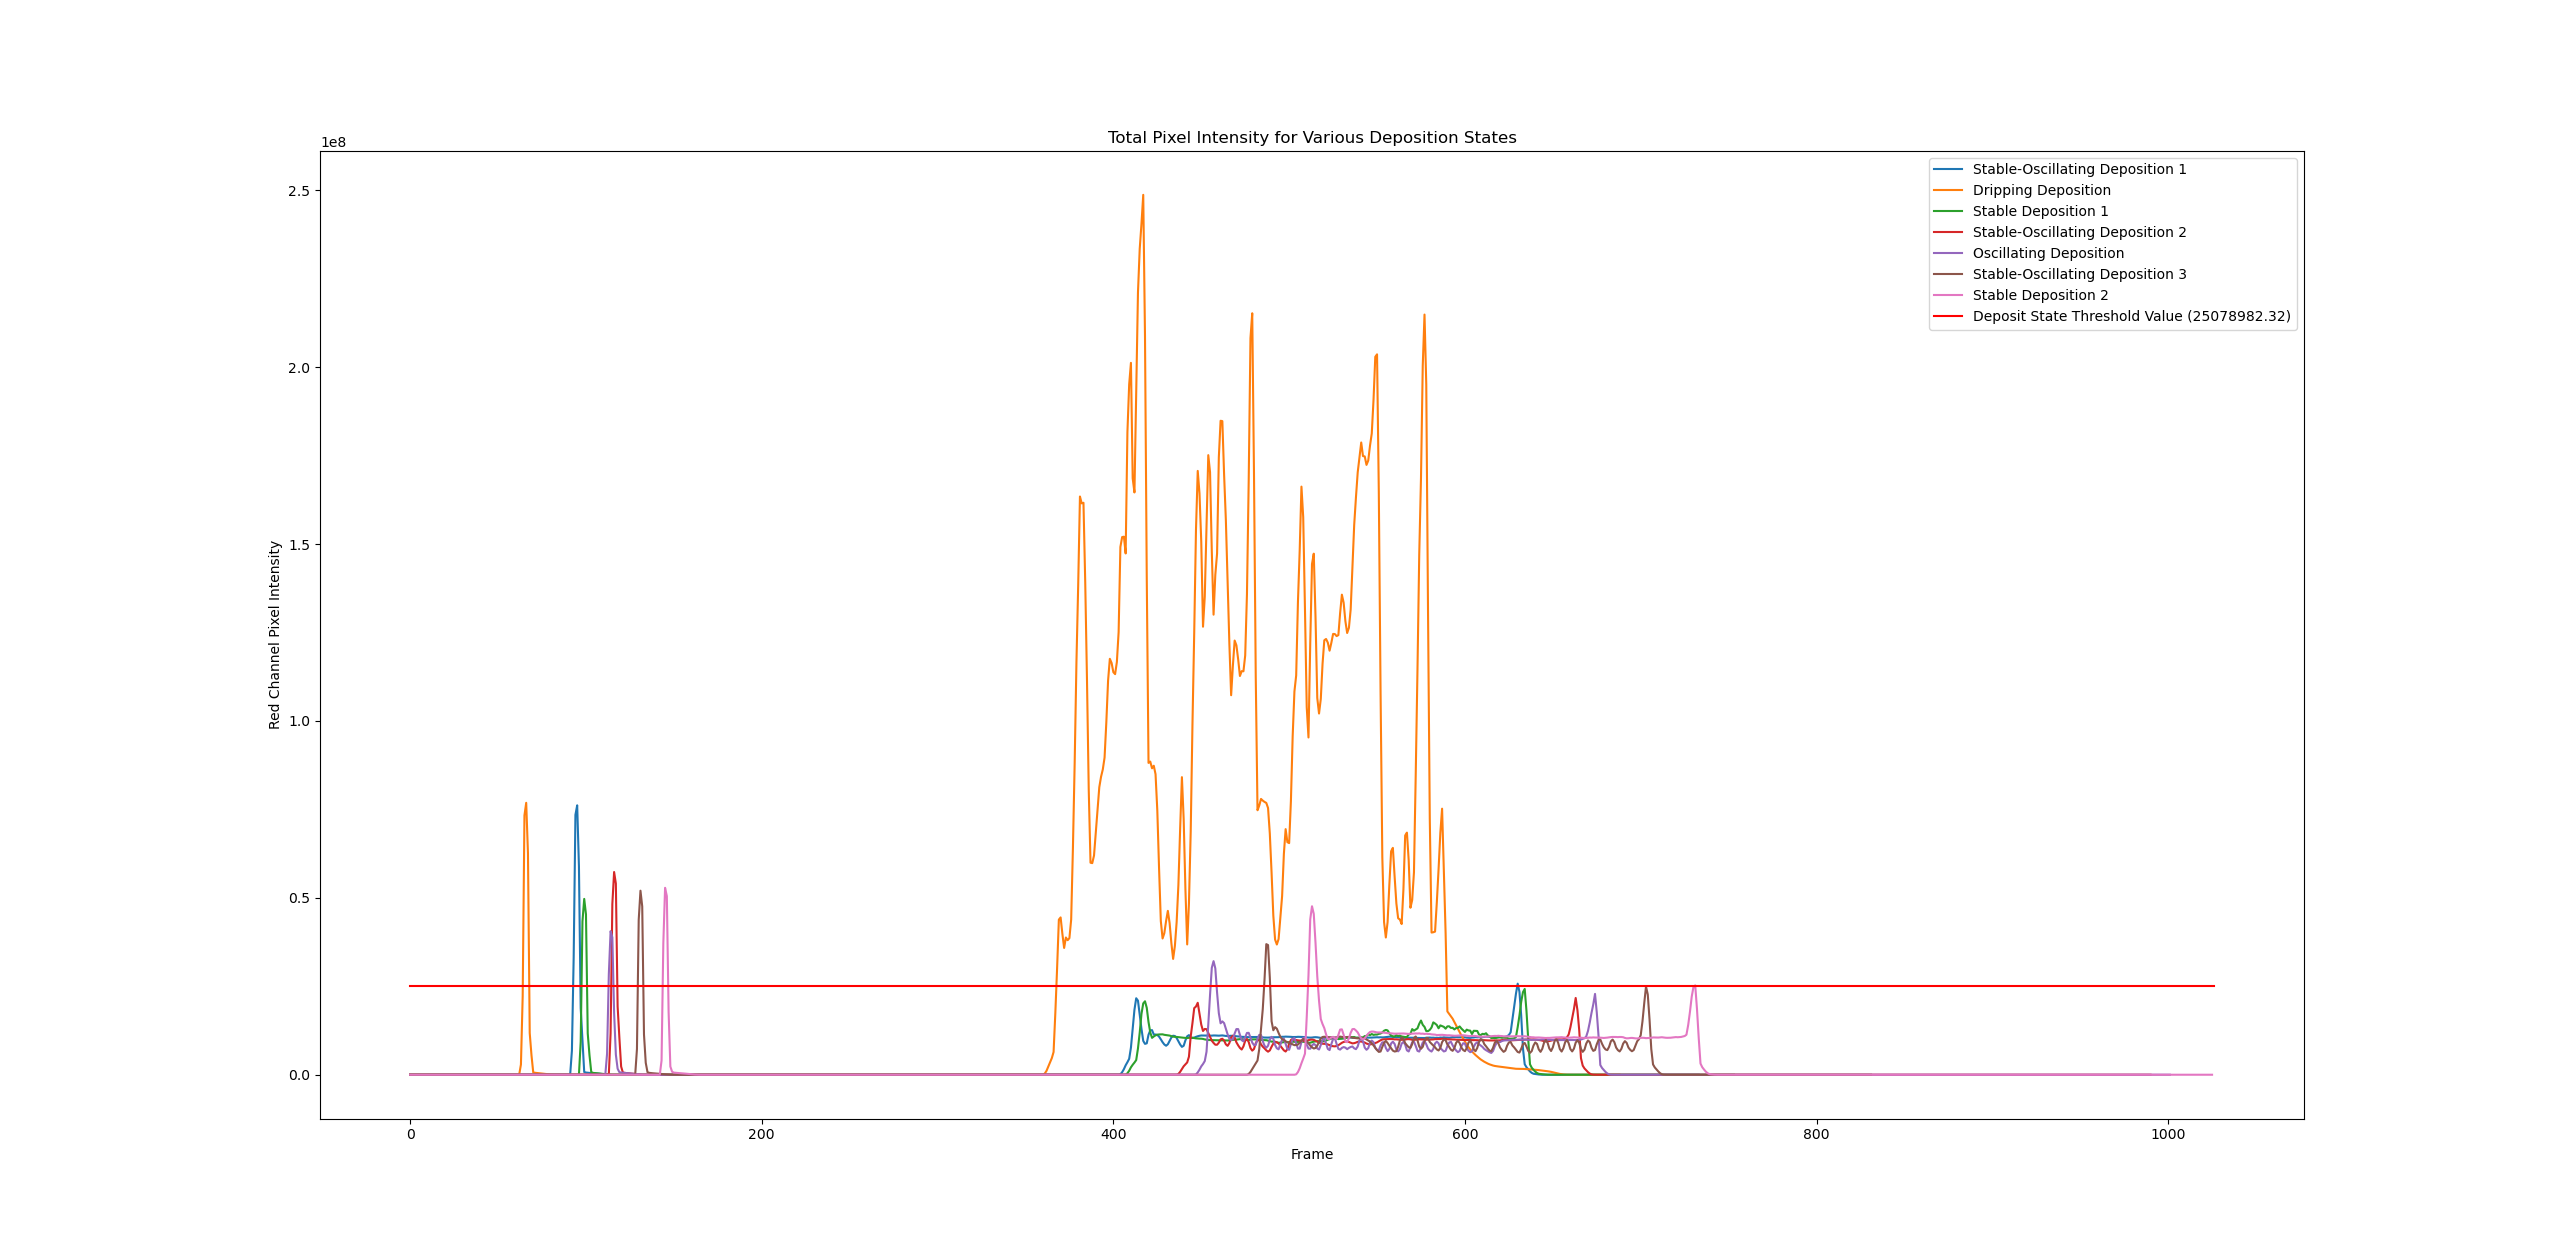
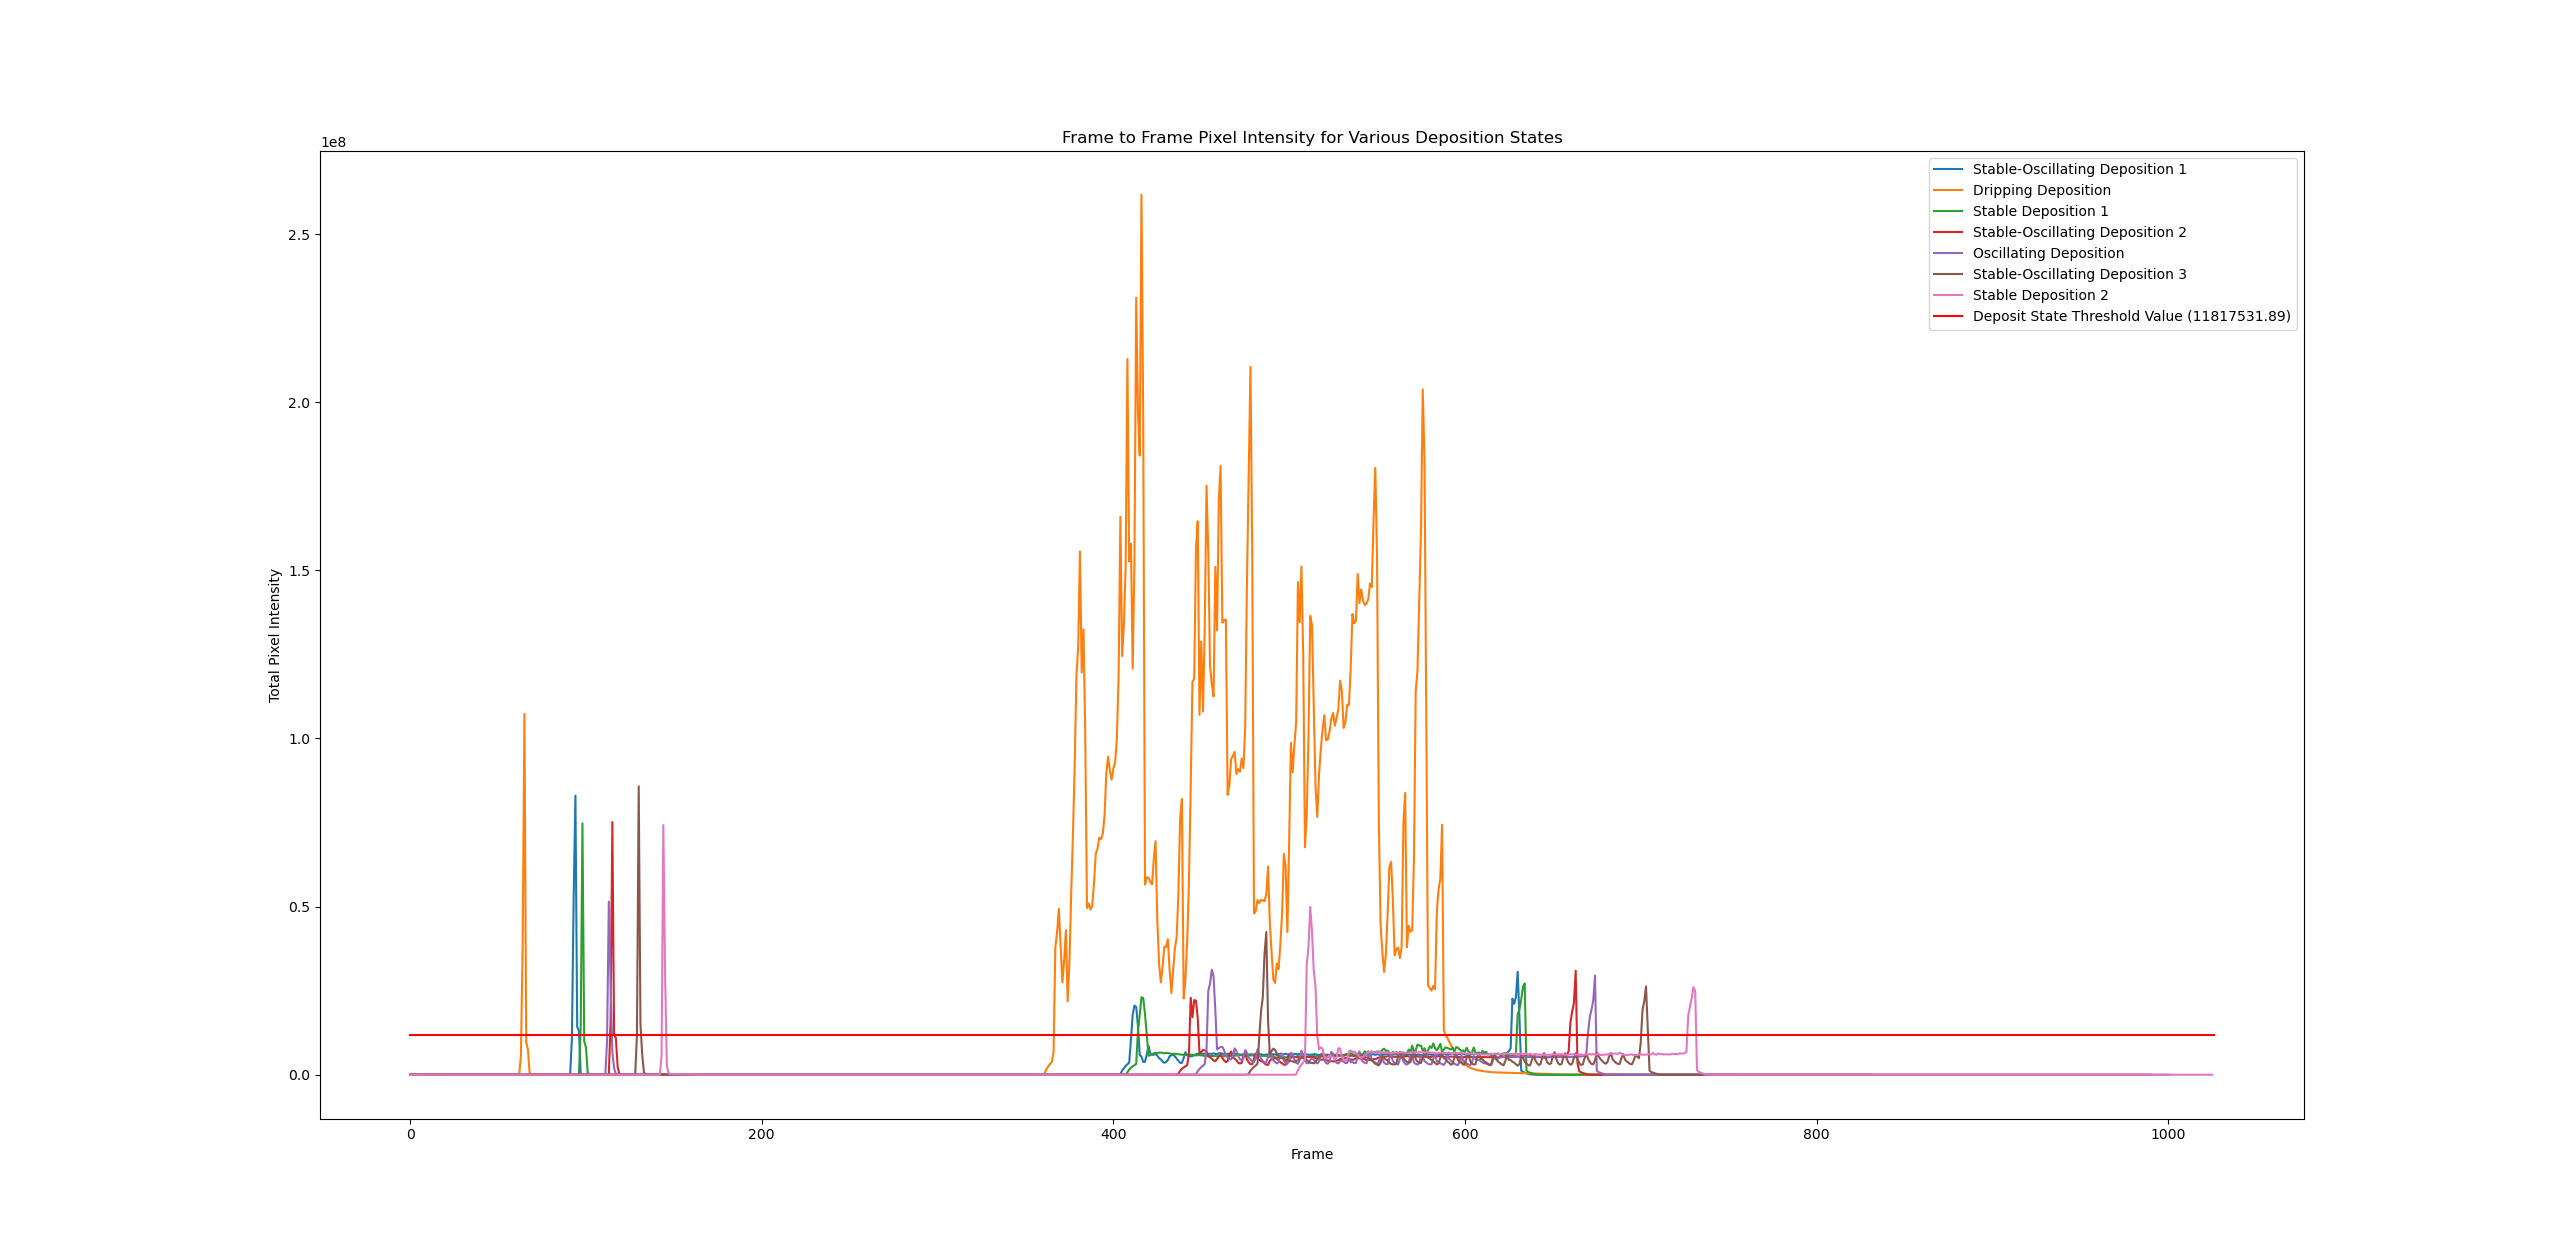
good progress today

diff --git a/Wiggleometer.py b/Wiggleometer.py
@@ -46,7 +46,7 @@ class Wiggleometer:
 
         #thresholding parameters
         self.deposit_state_threshold = 3687626
-        self.balling_threshold = 20248446
+        self.balling_threshold = 11817531
         self.stubbing_threshold = 801825
         
 
@@ -153,6 +153,8 @@ class Wiggleometer:
 
         elif np.mean(self.total_intensity_buffer) > self.balling_threshold or self.total_intensity > self.balling_threshold:
             self.stability_state = 'Balling'
+            self.stub_frequency_buffer[-1] = 0
+
 
         else:
             peaks,__ = find_peaks(np.asarray(self.stub_frequency_buffer),prominence = 500000,plateau_size = 1,width=1)
@@ -164,6 +166,7 @@ class Wiggleometer:
                     self.active_event = True
                     #print('EVENT DETECTED')
                 self.stability_state = 'Stubbing'
+                print(self.stub_frequency_buffer)
 
             if np.mean(np.asarray(self.frame_change_buffer,dtype=np.float64)) > self.stubbing_threshold:
                 self.stability_state = 'Stubbing'
@@ -215,18 +218,17 @@ class Wiggleometer:
 
         if self.deposit_state == 'Engage' and self.frame_change_difference < self.deposit_state_threshold:
             self.deposit_state = 'Depositing'
-
             print('Deposit has started')
 
         if self.deposit_state == 'Depositing' and self.frame_change_difference > self.deposit_state_threshold and self.stability_state != 'Balling':
             self.deposit_state = 'Retract'
             print('OG retract')
 
-        if self.deposit_state == 'Depositing' and self.frame_change_difference < 1000 and self.stability_state == 'Balling':
+        if self.deposit_state == 'Depositing' and self.frame_change_difference < 1000:
             self.deposit_state = 'Retract'
             print('NEW retract')
 
-        if self.deposit_state == 'Retract' and self.frame_change_difference < 1000:
+        elif self.deposit_state == 'Retract' and self.frame_change_difference < 1000:
             self.deposit_state = 'Deposition Complete'
             print('complete')
 
@@ -237,7 +239,7 @@ class Wiggleometer:
         
         if self.deposit_state == 'Engage':
             self.engage_index.append(self.frame_idx)
-            print(f'\n\n\n engage happened at {self.engage_index}\n\n\n')
+            #print(f'\n\n\n engage happened at {self.engage_index}\n\n\n')
 
         if self.deposit_state == 'Retract':
             self.retract_index.append(self.frame_idx)
@@ -390,7 +392,7 @@ if __name__ == '__main__':
     global_true_binary_change = []
 
     videos = [1,3,4,5,6,7]
-    files = [1,2,3,4,5,6,7]
+    files = [2]
     roi = [795,444,305,588]
     threshold = 100
 
@@ -459,10 +461,13 @@ if __name__ == '__main__':
             cv2.rectangle(test.gray_image, (int(roi[0]), int(roi[1])), (int(roi[0]+roi[2]), int(roi[1]+roi[3])), (255, 255, 255), 2) 
             # cv2.imshow('frame',display_img)
             # cv2.waitKey(60)
-            print(test.stability_state)
+            # print(test.stability_state)
             print(f'frame change difference {test.frame_change_difference}')
+            print(test.stability_state)
+            # print(test.stub_frequency_buffer)
+            # print('its balling right the frick now')
             
-            print(f'intensity {test.total_intensity}')
+            # print(f'intensity {test.total_intensity}')
             test.get_frame()
             
             total_average_intensity.append(np.mean(np.asarray(test.total_intensity_buffer,dtype=np.float64)))
@@ -480,7 +485,7 @@ if __name__ == '__main__':
         #plt.plot(total_intensity,color='blue')
         #plt.plot(true_binary_change,color='red')
         #plt.show()
-        #stubs,lengths,positions = find_stub_indecies(binary_change,test.engage_index,test.retract_index)
+        stubs,lengths,positions = find_stub_indecies(binary_change,test.engage_index,test.retract_index)
 
         # #find_stub_lengths(binary_change,stubs,test.engage_index,test.retract_index)
 
@@ -499,12 +504,12 @@ if __name__ == '__main__':
         # plt.title('White Count')
         # plt.show()
         
-        # deposit_data.update({'stub_indecies':stubs})
-        # deposit_data.update({'stub_lengths':lengths})
-        # deposit_data.update({'stub_intensities':binary_change[stubs]})
-        # #deposit_data.update({'deposit_length':((np.max(test.retract_index)-np.min(test.engage_index))/30)})
-        # deposit_data.update({'total_stub_occurances':len(stubs)})
-        #print_stub_summary(deposit_data)
+        deposit_data.update({'stub_indecies':stubs})
+        deposit_data.update({'stub_lengths':lengths})
+        deposit_data.update({'stub_intensities':binary_change[stubs]})
+        deposit_data.update({'deposit_length':((np.max(test.retract_index)-np.min(test.engage_index))/30)})
+        deposit_data.update({'total_stub_occurances':len(stubs)})
+        print_stub_summary(deposit_data)
 
    
         
@@ -562,21 +567,21 @@ if __name__ == '__main__':
 
     
 
-    for idx,threshold in enumerate(files):
-    #     #plt.plot(vid)
-        print(f'{titles[threshold-1]}')
-        plt.plot(global_total_intensity[idx],label = f'{titles[threshold-1]}')
-    plt.legend(loc="upper left")
+    # for idx,threshold in enumerate(files):
+    # #     #plt.plot(vid)
+    #     print(f'{titles[threshold-1]}')
+    #     plt.plot(global_total_intensity[idx],label = f'{titles[threshold-1]}')
+    # plt.legend(loc="upper left")
 
-    plt.xlabel('Frame')
-    plt.ylabel('Total Pixel Intensity')
-    plt.title('Frame to Frame Pixel Intensity for Various Deposition States')
+    # plt.xlabel('Frame')
+    # plt.ylabel('Total Pixel Intensity')
+    # plt.title('Frame to Frame Pixel Intensity for Various Deposition States')
 
-    Vline = draggable_lines(ax, "h", 10000,len(max(global_binary_change, key=len)))
-    # Update the legend after adding the draggable line
-    handles, labels = ax.get_legend_handles_labels()
-    ax.legend(handles, labels, loc='upper right')
-    plt.show()
+    # Vline = draggable_lines(ax, "h", 10000,len(max(global_binary_change, key=len)))
+    # # Update the legend after adding the draggable line
+    # handles, labels = ax.get_legend_handles_labels()
+    # ax.legend(handles, labels, loc='upper right')
+    # plt.show()
 
 
     for idx,threshold in enumerate(files):
